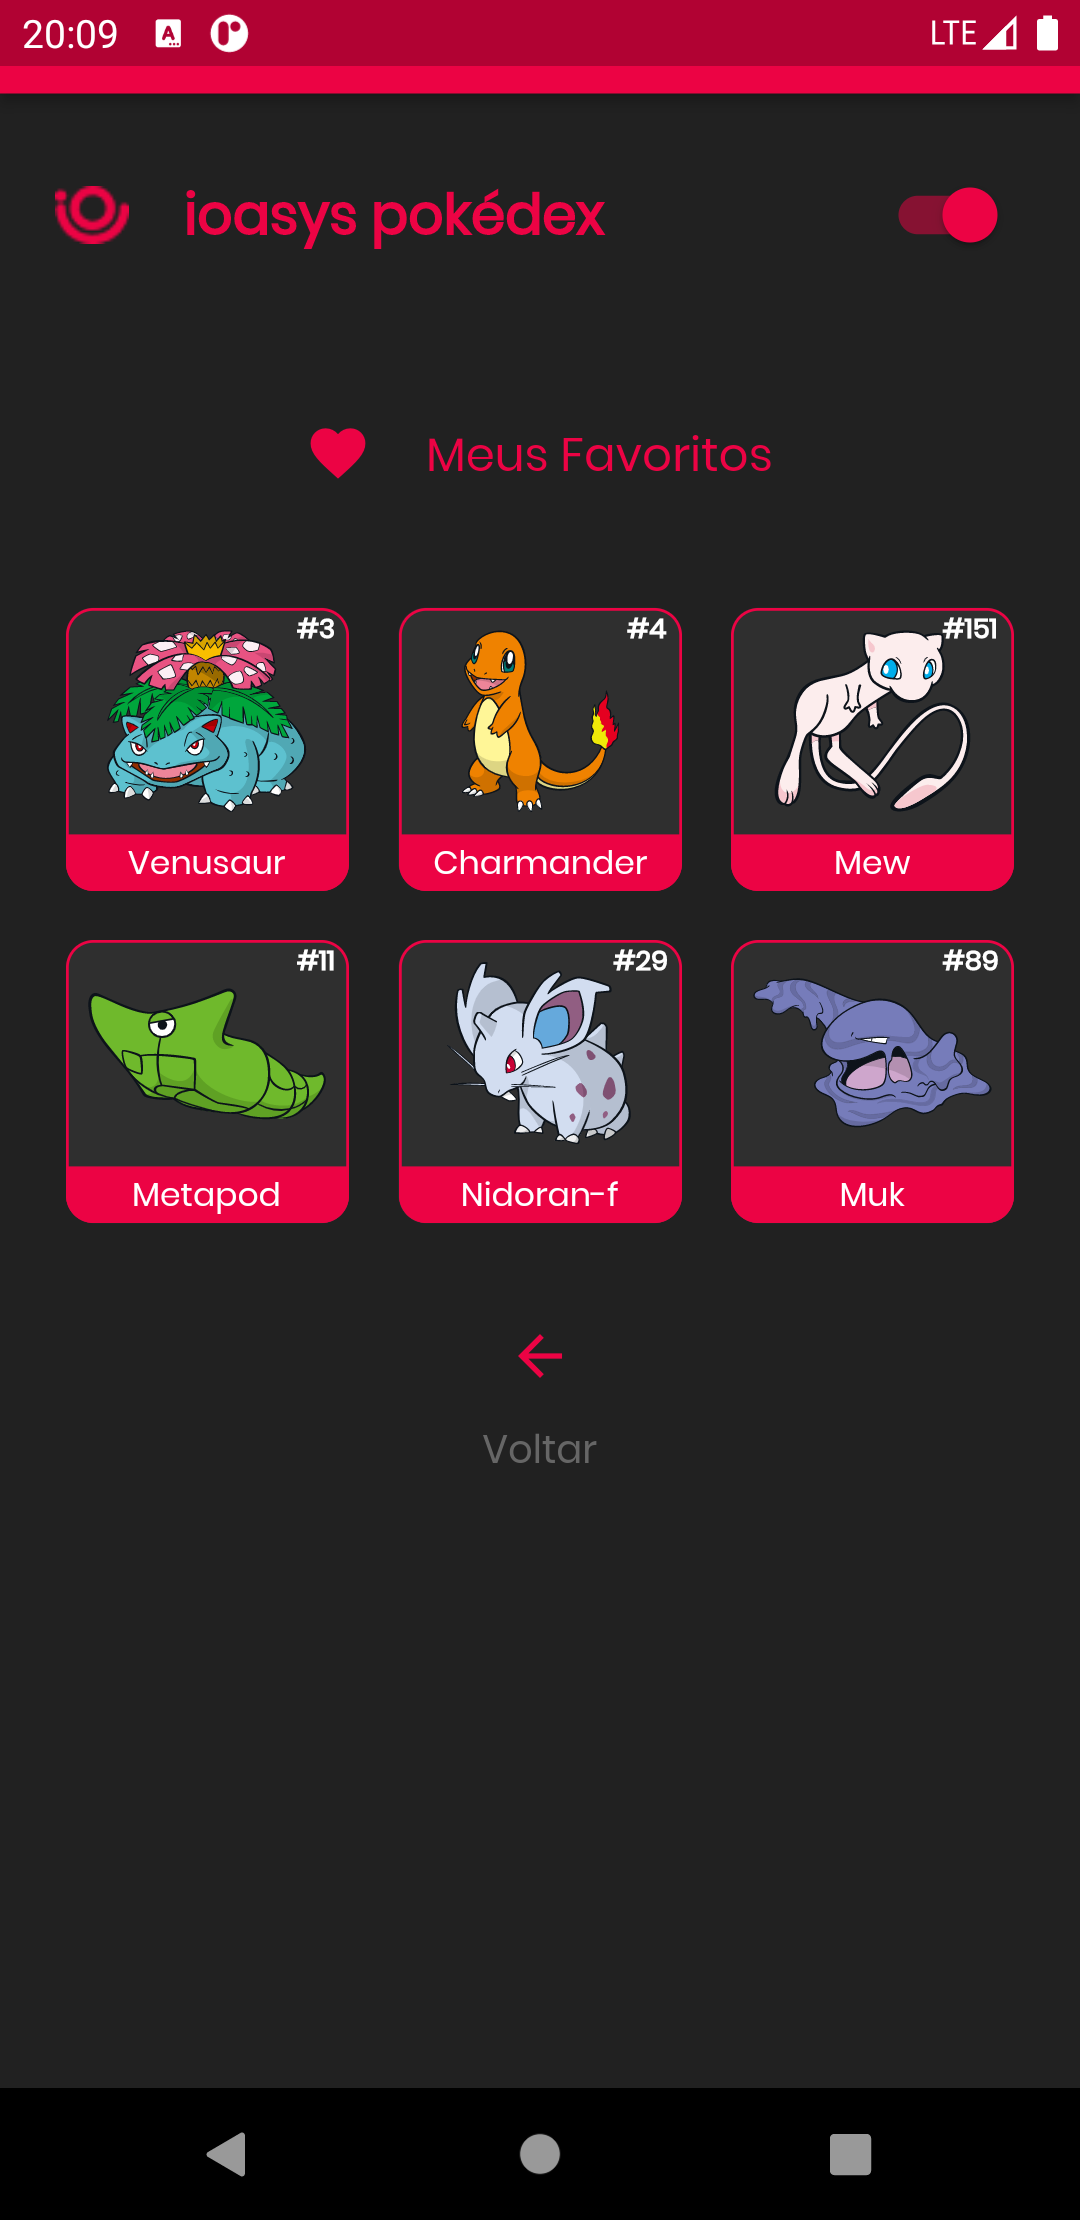
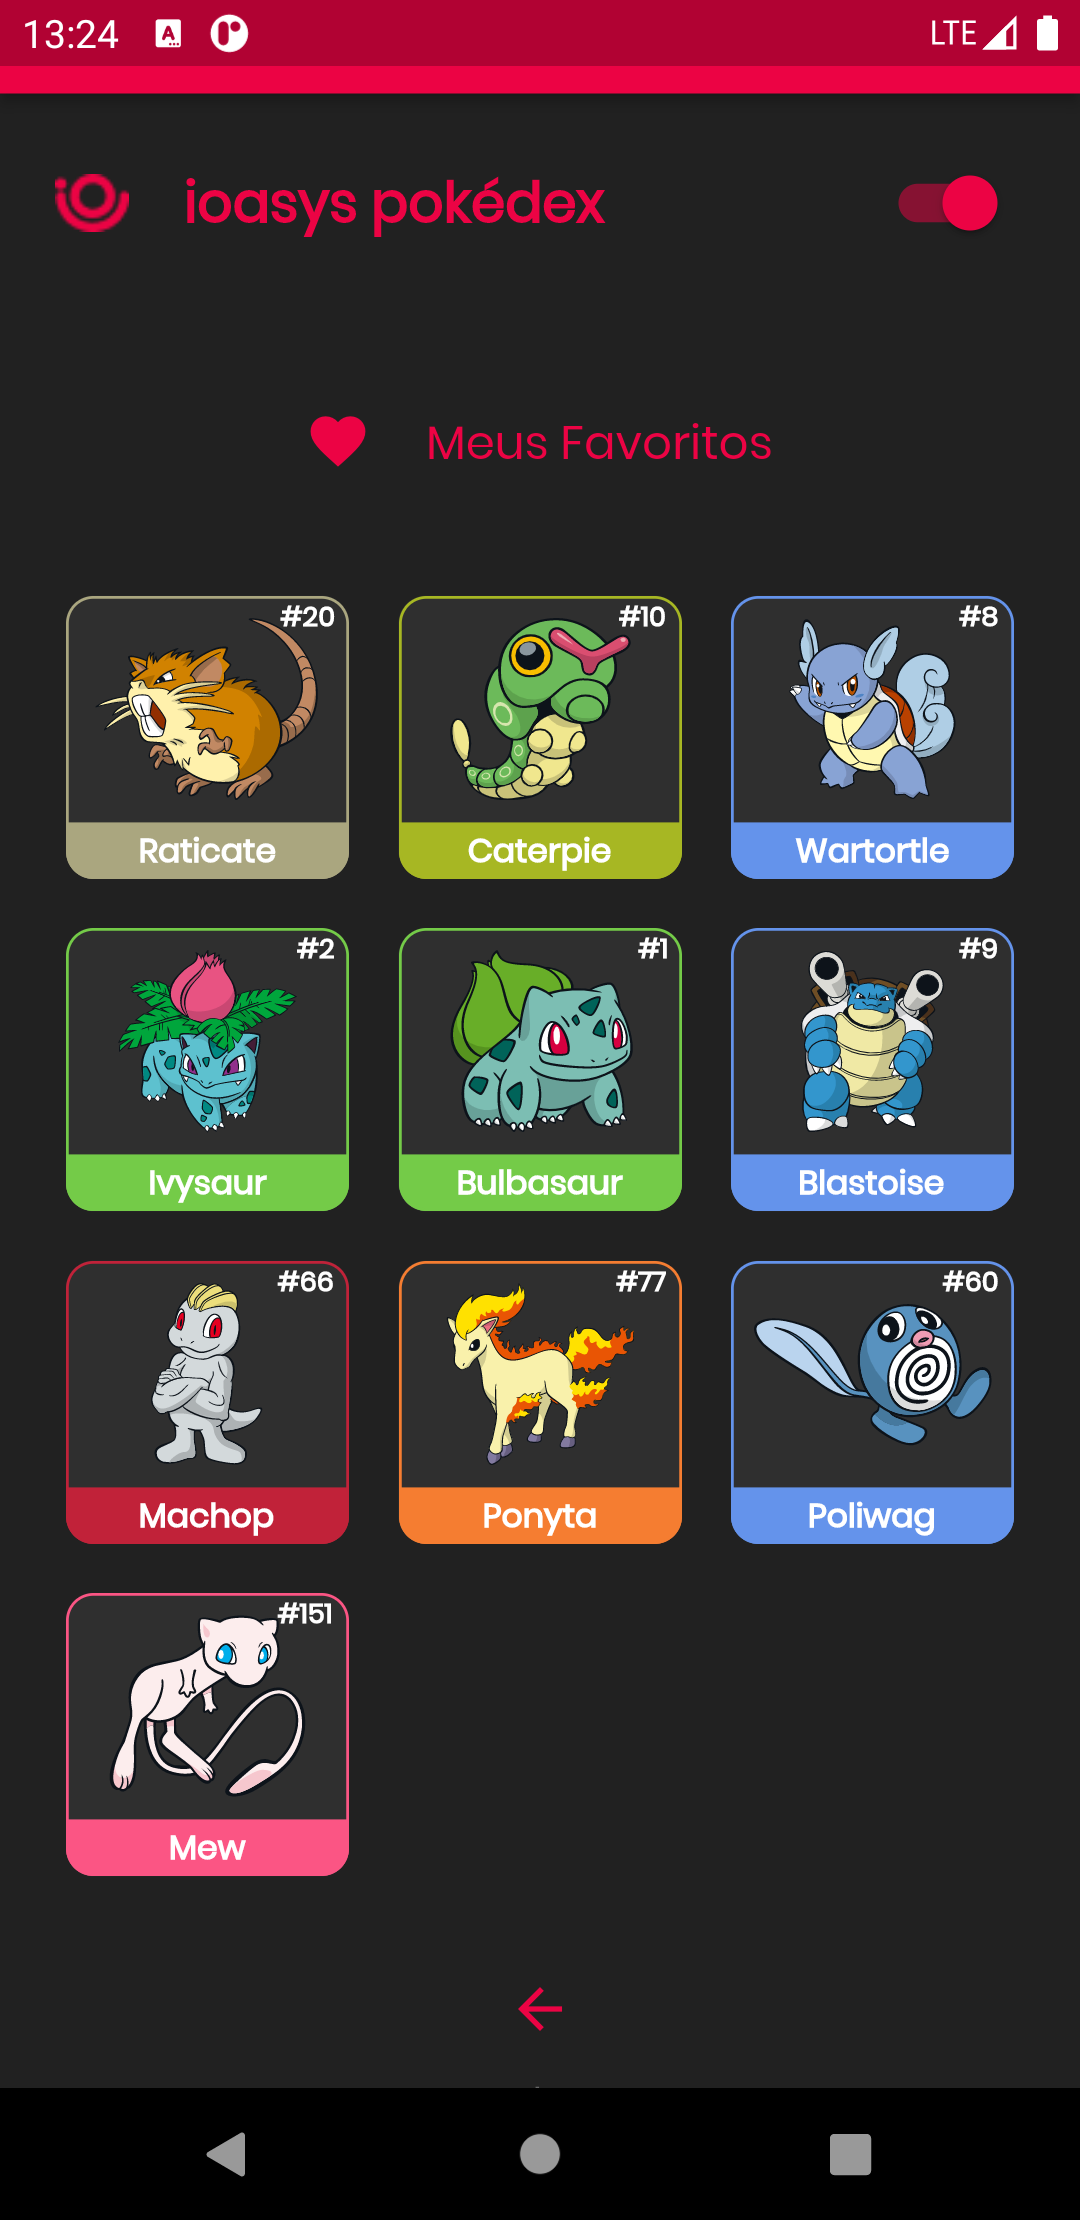
pokemon color type adjustment

diff --git a/lib/app/modules/home/presentation/pages/details/details_page.dart b/lib/app/modules/home/presentation/pages/details/details_page.dart
@@ -1,4 +1,3 @@
-import 'dart:math' as math;
 import 'package:flutter/material.dart';
 import 'package:flutter_mobx/flutter_mobx.dart';
 import 'package:flutter_modular/flutter_modular.dart';
@@ -6,7 +5,6 @@ import 'package:flutter_svg/svg.dart';
 import '../../../data/models/details.dart';
 import '../home/home_controller.dart';
 import '../../../../../shared/utils/utils.dart';
-
 import '../../../../../shared/ui/themes/app_colors.dart';
 import '../../../../../shared/ui/themes/app_images.dart';
 import 'widgets/stats_widget.dart';
@@ -34,7 +32,7 @@ class DetailsPage extends StatelessWidget {
           )
         ],
       ),
-      backgroundColor: AppColors.blue,
+      backgroundColor: details.baseColor,
       body: SafeArea(
         child: Stack(
           clipBehavior: Clip.none,
@@ -92,14 +90,12 @@ class DetailsPage extends StatelessWidget {
                                       child: FilterChip(
                                         label: Text(
                                           Utils.capitalize(t.name),
-                                          style:
-                                              TextStyle(color: AppColors.white),
+                                          style: TextStyle(
+                                              color: AppColors.white,
+                                              fontWeight: FontWeight.bold),
                                         ),
-                                        backgroundColor: Color(
-                                                (math.Random().nextDouble() *
-                                                        0xFFFFFF)
-                                                    .toInt())
-                                            .withOpacity(1.0),
+                                        backgroundColor:
+                                            Details.color(type: t.name),
                                         onSelected: (b) {},
                                       ),
                                     ))
@@ -211,55 +207,37 @@ class DetailsPage extends StatelessWidget {
                           'Base Stats',
                           textAlign: TextAlign.justify,
                           style: TextStyle(
-                              color: AppColors.blue,
+                              color: details.baseColor,
                               fontSize: 20,
                               fontWeight: FontWeight.bold),
                         ),
                       ),
                       StatsWidget(
-                        typeStat: 'HP',
-                        valueStat: details.stats[0].baseStat,
-                        colorText: controller.backgroundColorDark
-                            ? AppColors.white
-                            : AppColors.black,
-                      ),
+                          typeStat: 'HP',
+                          valueStat: details.stats[0].baseStat,
+                          colorType: details.baseColor!),
                       StatsWidget(
-                        typeStat: 'ATK',
-                        valueStat: details.stats[1].baseStat,
-                        colorText: controller.backgroundColorDark
-                            ? AppColors.white
-                            : AppColors.black,
-                      ),
+                          typeStat: 'ATK',
+                          valueStat: details.stats[1].baseStat,
+                          colorType: details.baseColor),
                       StatsWidget(
-                        typeStat: 'DEF',
-                        valueStat: details.stats[2].baseStat,
-                        colorText: controller.backgroundColorDark
-                            ? AppColors.white
-                            : AppColors.black,
-                      ),
+                          typeStat: 'DEF',
+                          valueStat: details.stats[2].baseStat,
+                          colorType: details.baseColor),
                       StatsWidget(
-                        typeStat: 'SATK',
-                        valueStat: details.stats[3].baseStat,
-                        colorText: controller.backgroundColorDark
-                            ? AppColors.white
-                            : AppColors.black,
-                      ),
+                          typeStat: 'SATK',
+                          valueStat: details.stats[3].baseStat,
+                          colorType: details.baseColor),
                       StatsWidget(
-                        typeStat: 'SDEF',
-                        valueStat: details.stats[4].baseStat,
-                        colorText: controller.backgroundColorDark
-                            ? AppColors.white
-                            : AppColors.black,
-                      ),
+                          typeStat: 'SDEF',
+                          valueStat: details.stats[4].baseStat,
+                          colorType: details.baseColor),
                       Padding(
                         padding: const EdgeInsets.only(bottom: 20),
                         child: StatsWidget(
-                          typeStat: 'SPD',
-                          valueStat: details.stats[5].baseStat,
-                          colorText: controller.backgroundColorDark
-                              ? AppColors.white
-                              : AppColors.black,
-                        ),
+                            typeStat: 'SPD',
+                            valueStat: details.stats[5].baseStat,
+                            colorType: details.baseColor),
                       ),
                     ],
                   ),

diff --git a/lib/app/shared/ui/widgets/pokemon_list_tile.dart b/lib/app/shared/ui/widgets/pokemon_list_tile.dart
@@ -6,18 +6,23 @@ import '../../utils/utils.dart';
 class PokemonListTile extends StatelessWidget {
   final String name;
   final int index;
-  final Color color;
+  final Color colorBackground;
+  final Color? colorType;
 
   const PokemonListTile(
-      {Key? key, required this.name, required this.index, required this.color})
+      {Key? key,
+      required this.name,
+      required this.index,
+      required this.colorBackground,
+      this.colorType})
       : super(key: key);
 
   @override
   Widget build(BuildContext context) {
     return Card(
-      color: color,
+      color: colorBackground,
       shape: RoundedRectangleBorder(
-        side: BorderSide(color: AppColors.primary, width: 1.0),
+        side: BorderSide(color: colorType ?? AppColors.primary, width: 1.0),
         borderRadius: BorderRadius.circular(10.0),
       ),
       elevation: 0,
@@ -28,7 +33,7 @@ class PokemonListTile extends StatelessWidget {
               child: Text(
                 '#${index.toString()}',
                 style: TextStyle(
-                    color: color == AppColors.white
+                    color: colorBackground == AppColors.white
                         ? AppColors.black
                         : Colors.white,
                     fontSize: 10,
@@ -55,7 +60,7 @@ class PokemonListTile extends StatelessWidget {
                 flex: 2,
                 child: Container(
                   decoration: BoxDecoration(
-                    color: AppColors.primary,
+                    color: colorType ?? AppColors.primary,
                     borderRadius: const BorderRadius.only(
                       bottomLeft: Radius.circular(10.0),
                       bottomRight: Radius.circular(10.0),
@@ -65,8 +70,10 @@ class PokemonListTile extends StatelessWidget {
                   width: MediaQuery.of(context).size.width,
                   child: Center(
                       child: Text(Utils.capitalize(name),
-                          style:
-                              TextStyle(color: AppColors.white, fontSize: 12))),
+                          style: TextStyle(
+                              color: AppColors.white,
+                              fontSize: 12,
+                              fontWeight: FontWeight.bold))),
                 ),
               )
             ],

diff --git a/lib/app/modules/home/presentation/pages/search/search_page.dart b/lib/app/modules/home/presentation/pages/search/search_page.dart
@@ -15,35 +15,38 @@ class SearchPage extends StatelessWidget {
   @override
   Widget build(BuildContext context) {
     return Scaffold(
-        backgroundColor: backgroundColorDark
-            ? AppColors.backgroundColorDark
-            : AppColors.white,
-        appBar: AppBar(
-          title: Text(Utils.capitalize(details.name)),
-          elevation: 0,
-        ),
-        body: Padding(
-          padding: const EdgeInsets.all(8.0),
-          child: GridView(
-            gridDelegate: const SliverGridDelegateWithFixedCrossAxisCount(
-              mainAxisSpacing: 10,
-              crossAxisSpacing: 10,
-              crossAxisCount: 3,
-            ),
-            children: [
-              GestureDetector(
-                onTap: () {
-                  Modular.to.pushNamed('/details', arguments: details);
-                },
-                child: PokemonListTile(
-                    name: details.name,
-                    index: details.id,
-                    color: backgroundColorDark
-                        ? AppColors.backgroundColorDark
-                        : AppColors.white),
-              ),
-            ],
+      backgroundColor:
+          backgroundColorDark ? AppColors.backgroundColorDark : AppColors.white,
+      appBar: AppBar(
+        title: Text(Utils.capitalize(details.name)),
+        elevation: 0,
+        backgroundColor: details.baseColor,
+      ),
+      body: Padding(
+        padding: const EdgeInsets.all(8.0),
+        child: GridView(
+          gridDelegate: const SliverGridDelegateWithFixedCrossAxisCount(
+            mainAxisSpacing: 10,
+            crossAxisSpacing: 10,
+            crossAxisCount: 3,
           ),
-        ));
+          children: [
+            GestureDetector(
+              onTap: () {
+                Modular.to.pushNamed('/details', arguments: details);
+              },
+              child: PokemonListTile(
+                colorType: details.baseColor,
+                name: details.name,
+                index: details.id,
+                colorBackground: backgroundColorDark
+                    ? AppColors.backgroundColorDark
+                    : AppColors.white,
+              ),
+            ),
+          ],
+        ),
+      ),
+    );
   }
 }

diff --git a/lib/app/modules/home/presentation/pages/details/widgets/stats_widget.dart b/lib/app/modules/home/presentation/pages/details/widgets/stats_widget.dart
@@ -1,5 +1,7 @@
 import 'package:flutter/material.dart';
+import 'package:flutter_modular/flutter_modular.dart';
 import 'package:percent_indicator/linear_percent_indicator.dart';
+import '../../home/home_controller.dart';
 import '../../../../../../shared/ui/themes/app_colors.dart';
 
 class StatsWidget extends StatelessWidget {
@@ -7,11 +9,11 @@ class StatsWidget extends StatelessWidget {
       {Key? key,
       required this.typeStat,
       required this.valueStat,
-      this.colorText})
+      this.colorType})
       : super(key: key);
   final String typeStat;
   final int valueStat;
-  final Color? colorText;
+  final Color? colorType;
 
   @override
   Widget build(BuildContext context) {
@@ -25,7 +27,10 @@ class StatsWidget extends StatelessWidget {
                 typeStat,
                 maxLines: 1,
                 overflow: TextOverflow.ellipsis,
-                style: TextStyle(color: colorText),
+                style: TextStyle(
+                  color: colorType ?? AppColors.primary,
+                  fontWeight: FontWeight.bold,
+                ),
               ),
             ),
           ),
@@ -40,7 +45,11 @@ class StatsWidget extends StatelessWidget {
             child: Padding(
               padding: const EdgeInsets.only(left: 10, bottom: 5),
               child: Text(valueStat.toString(),
-                  style: TextStyle(color: colorText)),
+                  style: TextStyle(
+                    color: Modular.get<HomeController>().backgroundColorDark
+                        ? AppColors.white
+                        : AppColors.black,
+                  )),
             ),
           ),
           Flexible(
@@ -52,7 +61,8 @@ class StatsWidget extends StatelessWidget {
                 lineHeight: 8.0,
                 percent: valueStat > 200 ? valueStat / 250 : valueStat / 200,
                 animation: true,
-                progressColor: Colors.red,
+                progressColor: colorType ?? Colors.red,
+                backgroundColor: colorType!.withOpacity(0.5),
               ),
             ),
           ),

diff --git a/lib/app/modules/home/data/models/details.dart b/lib/app/modules/home/data/models/details.dart
@@ -1,3 +1,5 @@
+import 'package:flutter/material.dart';
+
 import 'abilities.dart';
 import 'species.dart';
 import 'stats.dart';
@@ -37,6 +39,51 @@ class Details {
       types: List<Types>.from(map['types']?.map((x) => Types.fromMap(x))),
       weight: map['weight']?.toDouble() / 10 ?? 0,
     );
+  }
+
+  Color? get baseColor => color(type: types[0].name);
+
+  static Color? color({required String type}) {
+    switch (type) {
+      case 'normal':
+        return const Color(0xffAAA67F);
+      case 'fire':
+        return const Color(0xffF57D31);
+      case 'water':
+        return const Color(0xff6493EB);
+      case 'grass':
+        return const Color(0xFF74CB48);
+      case 'electric':
+        return const Color(0xffF9CF30);
+      case 'ice':
+        return const Color(0xff9AD6DF);
+      case 'fighting':
+        return const Color(0xffC12239);
+      case 'poison':
+        return const Color(0xffA43E9E);
+      case 'ground':
+        return const Color(0xffDEC16B);
+      case 'flying':
+        return const Color(0xffA891EC);
+      case 'psychic':
+        return const Color(0xffFB5584);
+      case 'bug':
+        return const Color(0xffA7B723);
+      case 'rock':
+        return const Color(0xffB69E31);
+      case 'ghost':
+        return const Color(0xff70559B);
+      case 'dark':
+        return const Color(0xff75574C);
+      case 'dragon':
+        return const Color(0xff7037FF);
+      case 'steel':
+        return const Color(0xffB7B9D0);
+      case 'fairy':
+        return const Color(0xffE69EAC);
+      default:
+        return Colors.grey;
+    }
   }
 
   @override

diff --git a/lib/app/modules/home/presentation/pages/favorites/favorites_page.dart b/lib/app/modules/home/presentation/pages/favorites/favorites_page.dart
@@ -105,9 +105,12 @@ class FavoritesPage extends StatelessWidget {
                                     }
                                   },
                                   child: PokemonListTile(
-                                      color: controller.backgroundColorDark
-                                          ? AppColors.backgroundColorDark
-                                          : AppColors.white,
+                                      colorType: controller
+                                          .favoritesList[index].baseColor,
+                                      colorBackground:
+                                          controller.backgroundColorDark
+                                              ? AppColors.backgroundColorDark
+                                              : AppColors.white,
                                       name: favoriteItem.name,
                                       index: favoriteItem.id),
                                 );

diff --git a/lib/app/modules/home/presentation/pages/home/home_page.dart b/lib/app/modules/home/presentation/pages/home/home_page.dart
@@ -183,9 +183,10 @@ class _HomePageState extends ModularState<HomePage, HomeController> {
                                     }
                                   },
                                   child: PokemonListTile(
-                                      color: controller.backgroundColorDark
-                                          ? AppColors.backgroundColorDark
-                                          : AppColors.white,
+                                      colorBackground:
+                                          controller.backgroundColorDark
+                                              ? AppColors.backgroundColorDark
+                                              : AppColors.white,
                                       name: controller.pokemonList[index].name,
                                       index: index + 1),
                                 );
